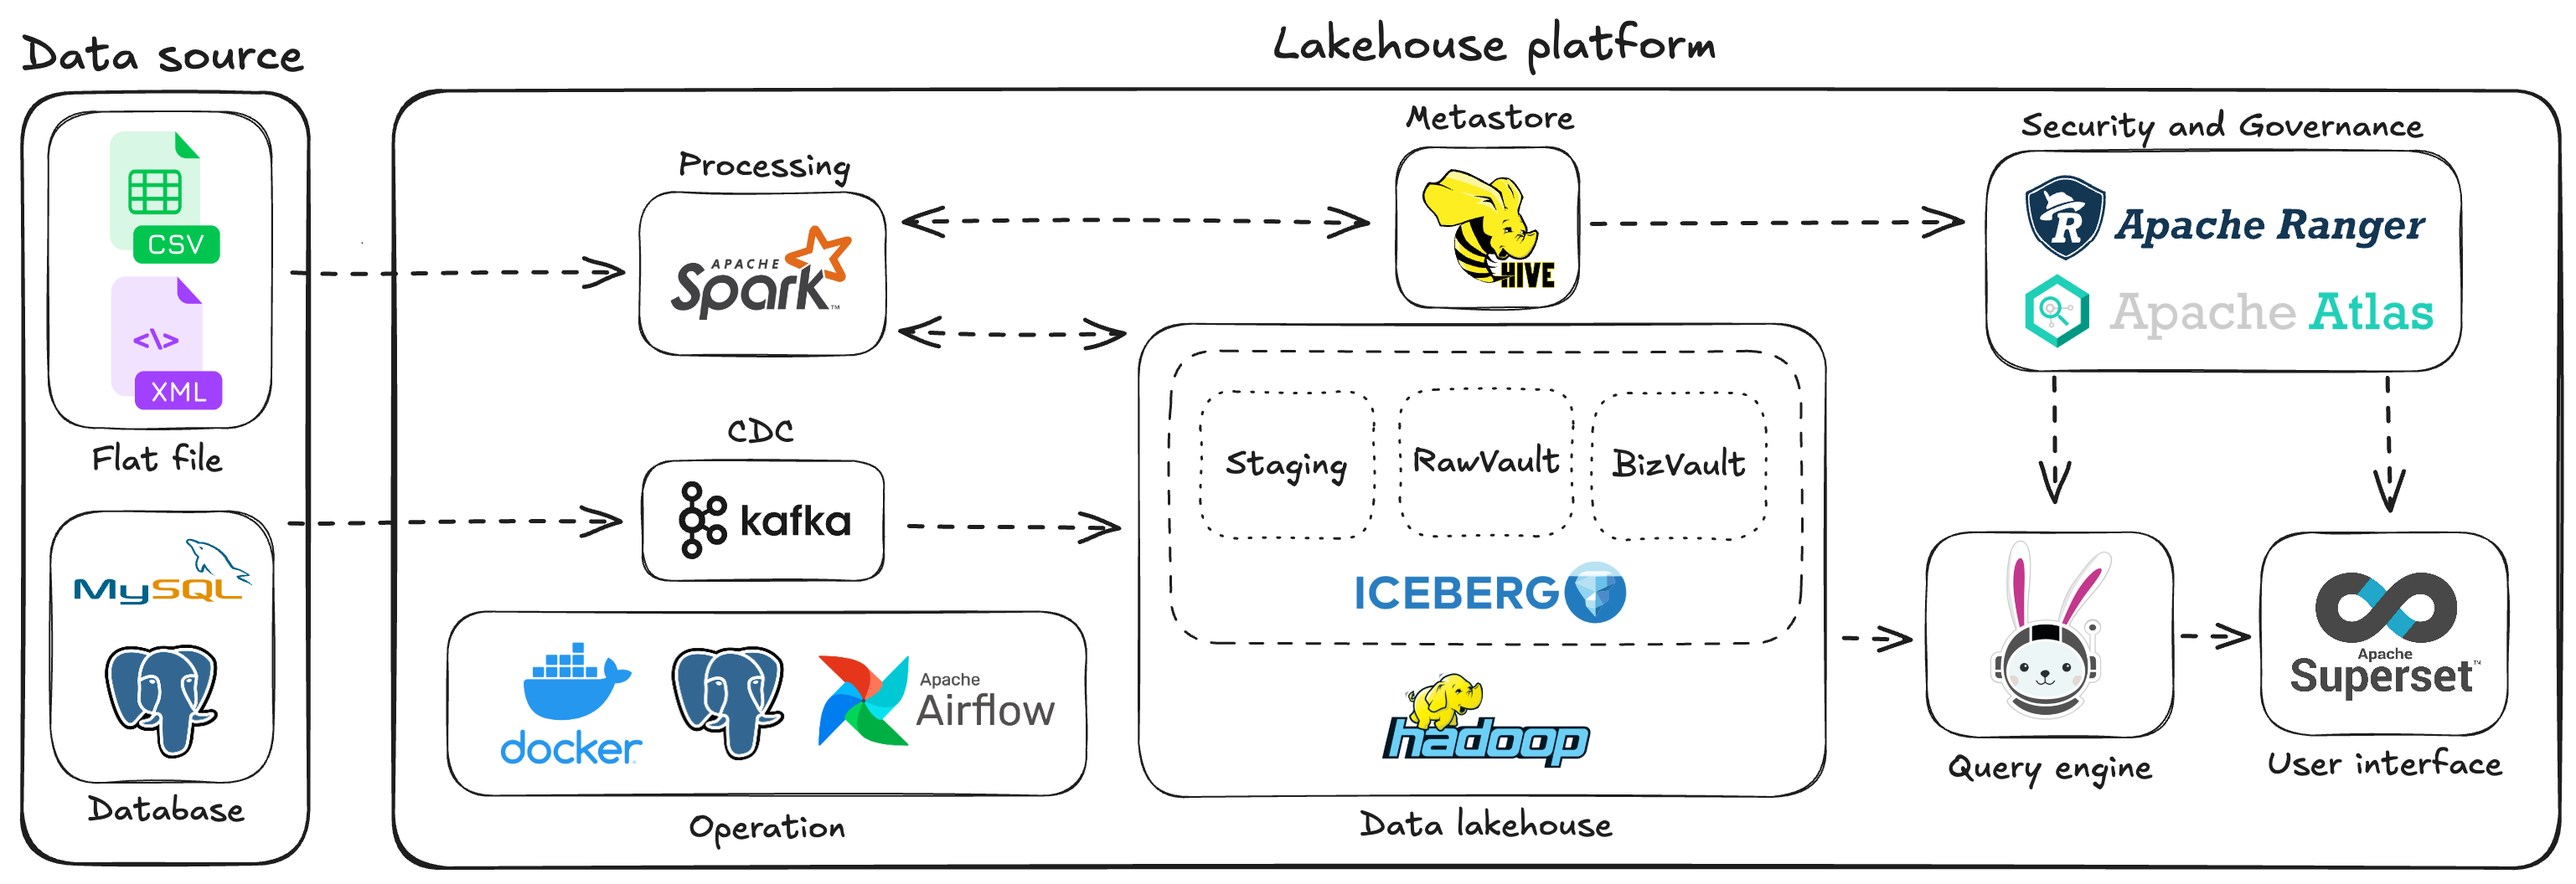
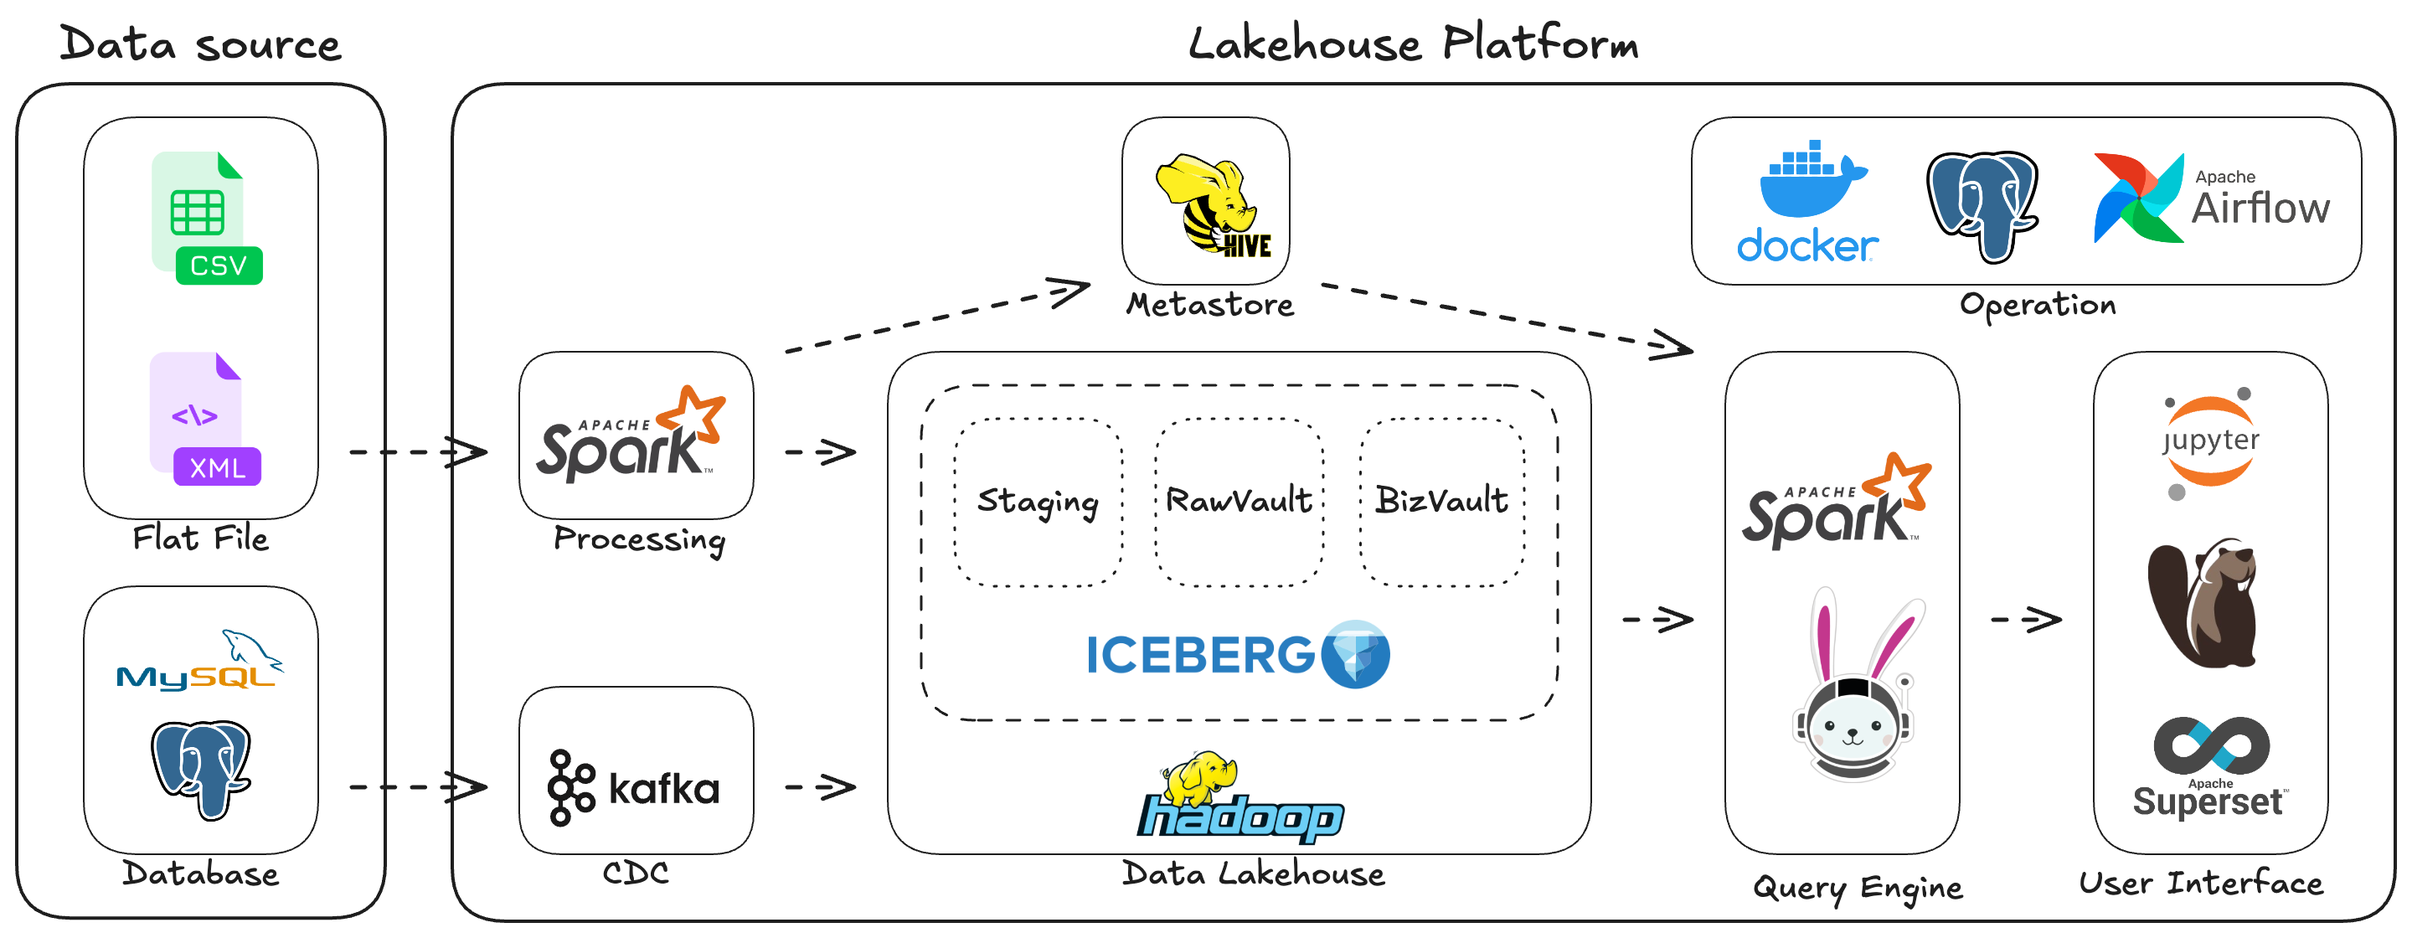
completed trino test

diff --git a/README.md b/README.md
@@ -28,16 +28,14 @@ These days, data becomes the DNA of every organization including both startups a
     - Database: your application databases (Example: MySQL, PostgreSQL).
     - Flat file: diverse file formats from users (Example: CSV, XML).
 - Data platform:
-    - Event streaming service: capture data in real-time from your sources (Example: Apache Kafka).
-    - Processing service:
-        - Mini-batch/Batch processing: process data from data source or staging (Example: Apache Spark).
+    - Event streaming: capture data in real-time from your sources (Example: Apache Kafka).
+    - Mini-batch/Batch processing: process data from data source or staging (Example: Apache Spark).
     - Data lakehouse:
         - Storage: play as a central repository storing your data (Example: Apache Hadoop).
         - Table format: play as an OLAP layer supporting ACID (Example: Apache Iceberg).
     - Metastore: store table metadata supporting query engines quickly access this information (Example: Apache Hive).
-    - Security and Governance: ensure security and compliance requirements for the enterprise (Example: Apache Ranger, Apache Atlas).
-    - Query engine: perform structure queries of users (Example: Trino).
-    - User interface: serve users (Example: Apache Superset).
+    - Query engine: perform structure queries of users (Example: Apache Spark, Trino).
+    - User interface: serve users (Example: Jupyter, DBeaver, Apache Superset).
     - Operation:
         - Containerization: develop, ship, and run applications (Example: Docker).
         - Metadata database: store metadata for other services (Example: PostgreSQL).
